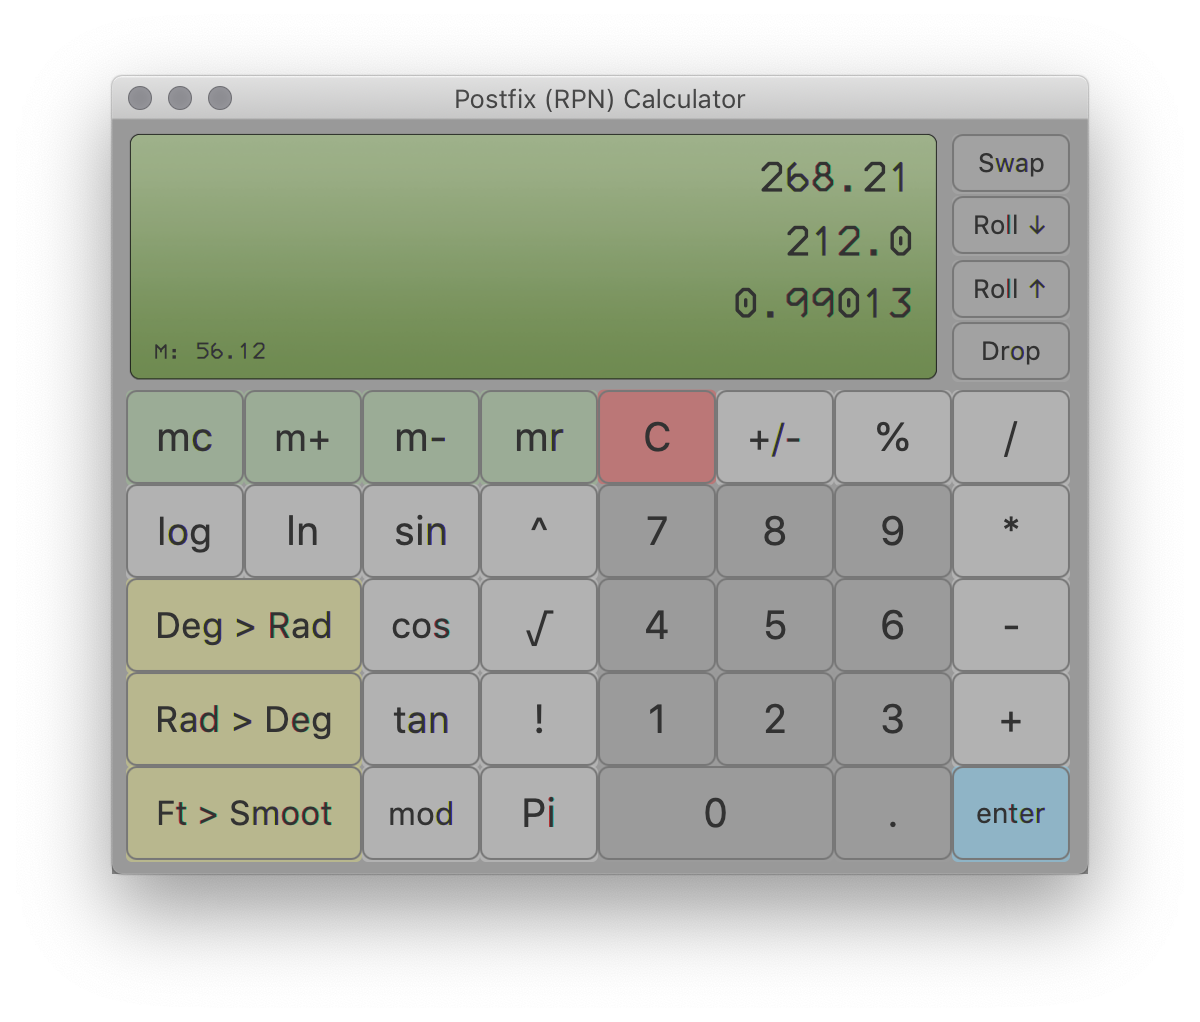
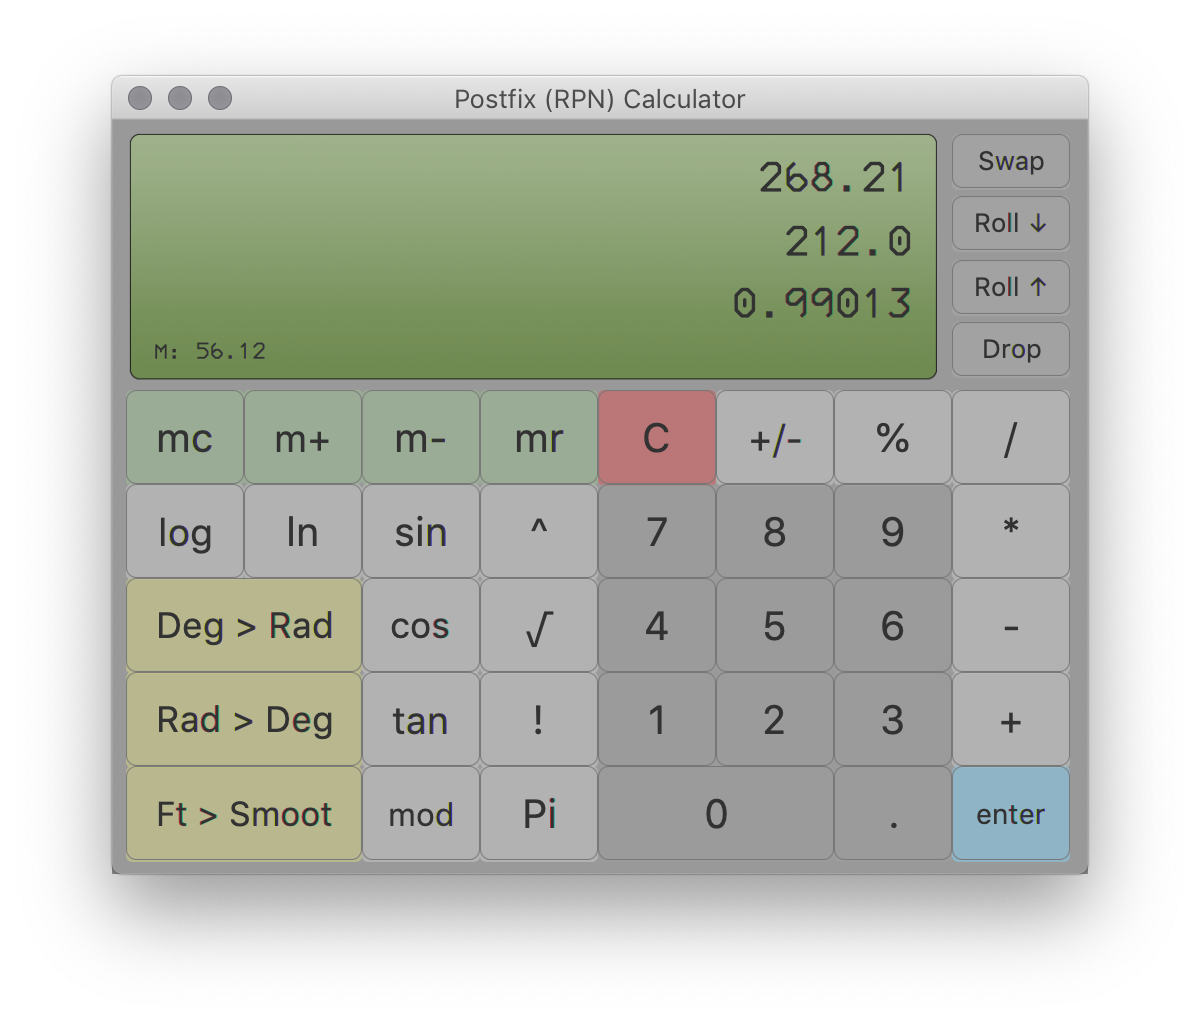
Adjusted button border width to .5 from 1
Adjusted button color on click to distinguish click better

Updated screenshot to reflect changes

diff --git a/src/gui-style.css b/src/gui-style.css
@@ -2,6 +2,7 @@
 {
     -fx-background-color:#9c9c9ca9;
     -fx-border-color:#777777;
+    -fx-border-width:.5;
     -fx-border-radius:5;
 }
 
@@ -14,6 +15,7 @@
 
 .numKey:pressed
 {
+    -fx-background-color:#8d5a38a9;
     -fx-border-color:#d36455;
     -fx-border-radius:5;
 }
@@ -22,6 +24,7 @@
 {
     -fx-background-color:#bebebeaf;
     -fx-border-color:#777777;
+    -fx-border-width:.5;
     -fx-border-radius:5;
 }
 
@@ -34,6 +37,7 @@
 
 .opKey:pressed
 {
+    -fx-background-color:#8d5a38a9;
     -fx-border-color:#d36455;
     -fx-border-radius:5;
 }
@@ -42,6 +46,7 @@
 {
     -fx-background-color:#8ac5e29d;
     -fx-border-color:#777777;
+    -fx-border-width:.5;
     -fx-border-radius:5;
 }
 
@@ -54,6 +59,7 @@
 
 .enterKey:pressed
 {
+    -fx-background-color:#17648a9d;
     -fx-border-color:#d36455;
     -fx-border-radius:5;
 }
@@ -62,6 +68,7 @@
 {
     -fx-background-color:#d3606098;
     -fx-border-color:#777777;
+    -fx-border-width:.5;
     -fx-border-radius:5;
 }
 
@@ -74,6 +81,7 @@
 
 .clearKey:pressed
 {
+    -fx-background-color:#83202098;
     -fx-border-color:#d36455;
     -fx-border-radius:5;
 }
@@ -82,6 +90,7 @@
 {
     -fx-background-color:rgba(159, 192, 149, 0.514);
     -fx-border-color:#777777;
+    -fx-border-width:.5;
     -fx-border-radius:5;
 }
 
@@ -94,6 +103,7 @@
 
 .memoryKey:pressed
 {
+    -fx-background-color:rgba(75, 109, 64, 0.514);
     -fx-border-color:#d36455;
     -fx-border-radius:5;
 }
@@ -102,6 +112,7 @@
 {
     -fx-background-color:#c9c88aa8;
     -fx-border-color:#777777;
+    -fx-border-width:.5;
     -fx-border-radius:5;
 }
 
@@ -114,6 +125,7 @@
 
 .convertKey:pressed
 {
+    -fx-background-color:#888856a8;
     -fx-border-color:#d36455;
     -fx-border-radius:5;
 }
@@ -122,6 +134,7 @@
 { 
     -fx-background-color:rgba(165, 165, 165, 0.767);
     -fx-border-color:#777777;
+    -fx-border-width:.5;
     -fx-border-radius:5;
 }
 
@@ -134,6 +147,7 @@
 
 .stackKey:pressed
 {
+    -fx-background-color:#855636a9;
     -fx-border-color:#d36455;
     -fx-border-radius:5;
 }
